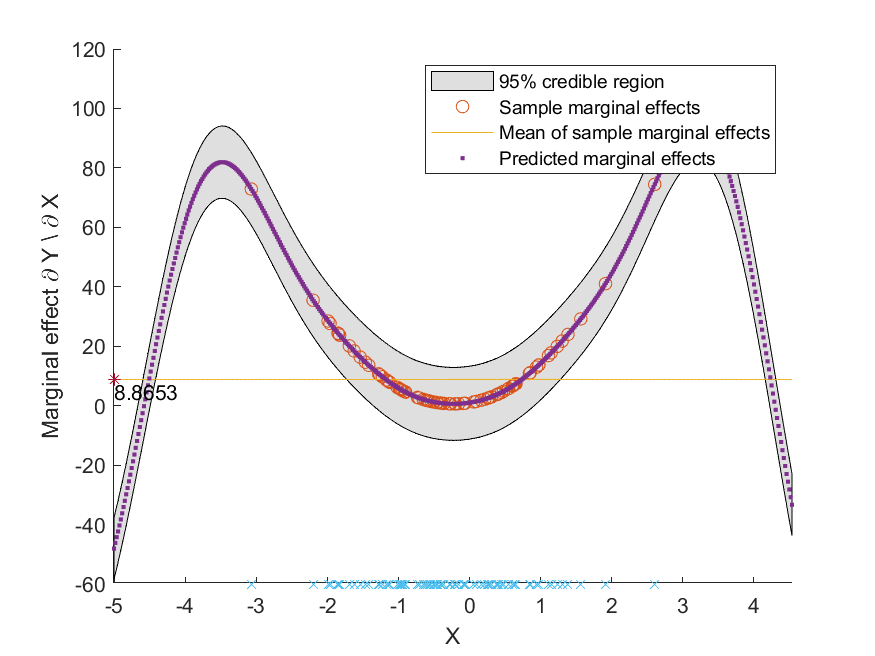
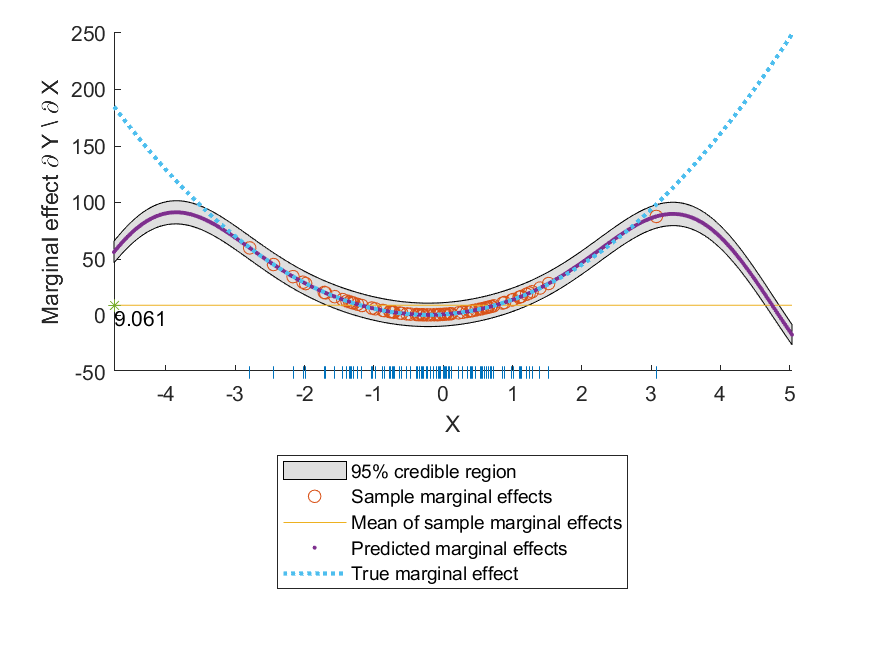
Bivariate interaction update
Bivariate interactions require modifying the plotme function so that sample marginal effects are plotted against the correct axis.

diff --git a/simulations/bivariate_linear_interaction.m b/simulations/bivariate_linear_interaction.m
@@ -18,9 +18,9 @@ y = b0 * ones(N,1) + X * [b1 b2]' + b3*(X(:,1) .* X(:,2))  + noise; % Marginal e
 train_X = normalize(X); % Normalize training data
 train_y = normalize(y); % Normalize training data
 
-% True DGP: y = -2 + (X1) + 2*(X2) + e;
-% True ME for X1: dy/dx1 = 1 + 2*(X2)
-% True ME for X2: dy/dx2 = 2 + 2*(X1)
+% True DGP: y = -2 + (X1) + 2*(X2) + 3*(X1*X2) + e;
+% True ME for X1: dy/dx1 = 1 + 3*(X2)
+% True ME for X2: dy/dx2 = 2 + 3*(X1)
 
 %% covSEiso
 
@@ -44,18 +44,38 @@ hyp_iso = minimize_v2(hyp, @gp, p, inffunc, meanfunc, covfunc, likfunc, train_X,
 
 d=1;
 numsteps=500;
-bivariate_linear_interaction_iso_x1 = gridme(d, numsteps, hyp_iso, meanfunc, covfunc, X, y);
+[ bivariate_linear_interaction_x1_iso, gridX ] = gridme(d, numsteps, hyp_iso, meanfunc, covfunc, X, y, [1 2]);
+hold on;
+plot(gridX(:,2), b1 + b3*gridX(:,2), ':', 'LineWidth', 2, 'DisplayName', "True marginal effect");
+xlabel('X2');
+ylabel('Marginal effect \partial Y \\ \partial X1')
+legend('Location', 'southoutside');
+legend('AutoUpdate', 'off');
+plot(X(:,2), min(ylim) * ones(size(X(:,2),1)), '|');
+%xlim([min(gridX(:,2)), max(gridX(:,2))])
+hold off;
 
 % Save the grid plot
-saveas(bivariate_linear_interaction_iso_x1, "C:\Users\johnsontr\Documents\GitHub\gpd\simulations\results\bivariate_linear_interaction_iso_x1.png")
+saveas(bivariate_linear_interaction_x1_iso, "C:\Users\johnsontr\Documents\GitHub\gpd\simulations\results\bivariate_linear_interaction_x1_iso.png")
 close;
 
 d=2;
 numsteps=500;
-bivariate_linear_interaction_iso_x2 = gridme(d, numsteps, hyp_iso, meanfunc, covfunc, X, y);
+[ bivariate_linear_interaction_x2_iso, gridX ] = gridme(d, numsteps, hyp_iso, meanfunc, covfunc, X, y, [1 2]);
+xlim([min(gridX(:,1)), max(gridX(:,1))])
+hold on;
+plot(gridX(:,1), b2 + b3*gridX(:,1), ':', 'LineWidth', 2, 'DisplayName', "True marginal effect");
+
+xlabel('X1');
+ylabel('Marginal effect \partial Y \\ \partial X2')
+legend('Location', 'southoutside');
+legend('AutoUpdate', 'off');
+plot(X(:,1), min(ylim) * ones(size(X(:,1),1)), '|');
+
+hold off;
 
 % Save the grid plot
-saveas(bivariate_linear_interaction_iso_x2, "C:\Users\johnsontr\Documents\GitHub\gpd\simulations\results\bivariate_linear_interaction_iso_x2.png")
+saveas(bivariate_linear_interaction_x2_iso, "C:\Users\johnsontr\Documents\GitHub\gpd\simulations\results\bivariate_linear_interaction_x2_iso.png")
 close;
 
 %% covSEard
@@ -81,16 +101,35 @@ hyp_ard = minimize_v2(hyp, @gp, p, inffunc, meanfunc, covfunc, likfunc, train_X,
 
 d=1;
 numsteps=500;
-bivariate_linear_interaction_ard_x1 = gridme(d, numsteps, hyp_ard, meanfunc, covfunc, X, y);
+[ bivariate_linear_interaction_x1_ard, gridX ] = gridme(d, numsteps, hyp_ard, meanfunc, covfunc, X, y, [1 2]);
+hold on;
+plot(gridX(:,2), b1 + b3*gridX(:,2), ':', 'LineWidth', 2, 'DisplayName', "True marginal effect");
+xlabel('X2');
+ylabel('Marginal effect \partial Y \\ \partial X1')
+legend('Location', 'southoutside');
+legend('AutoUpdate', 'off');
+plot(X(:,d), min(ylim) * ones(size(X(:,d),1)), '|');
+xlim([min(gridX(:,2)), max(gridX(:,2))])
+hold off;
+
 
 % Save the grid plot
-saveas(bivariate_linear_interaction_ard_x1, "C:\Users\johnsontr\Documents\GitHub\gpd\simulations\results\bivariate_linear_interaction_ard_x1.png")
+saveas(bivariate_linear_interaction_x1_ard, "C:\Users\johnsontr\Documents\GitHub\gpd\simulations\results\bivariate_linear_interaction_x1_ard.png")
 close;
 
 d=2;
 numsteps=500;
-bivariate_linear_interaction_ard_x2 = gridme(d, numsteps, hyp_ard, meanfunc, covfunc, X, y);
+[ bivariate_linear_interaction_ard_x2, gridX ] = gridme(d, numsteps, hyp_ard, meanfunc, covfunc, X, y, [1 2]);
+hold on;
+plot(gridX(:,1), b2 + b3*gridX(:,1), ':', 'LineWidth', 2, 'DisplayName', "True marginal effect");
+xlabel('X1');
+ylabel('Marginal effect \partial Y \\ \partial X2')
+legend('Location', 'southoutside');
+legend('AutoUpdate', 'off');
+plot(X(:,d), min(ylim) * ones(size(X(:,d),1)), '|');
+xlim([min(gridX(:,1)), max(gridX(:,1))])
+hold off;
 
 % Save the grid plot
-saveas(bivariate_linear_interaction_ard_x2, "C:\Users\johnsontr\Documents\GitHub\gpd\simulations\results\bivariate_linear_interaction_ard_x2.png")
+saveas(bivariate_linear_interaction_ard_x2, "C:\Users\johnsontr\Documents\GitHub\gpd\simulations\results\bivariate_linear_interaction_x2_ard.png")
 close;

diff --git a/simulations/bivariate_linear.m b/simulations/bivariate_linear.m
@@ -44,18 +44,31 @@ hyp_iso = minimize_v2(hyp, @gp, p, inffunc, meanfunc, covfunc, likfunc, train_X,
 
 d=1;
 numsteps=500;
-bivariate_linear_iso_x1 = gridme(d, numsteps, hyp_iso, meanfunc, covfunc, X, y);
+[ bivariate_linear_x1_iso, gridX ] = gridme(d, numsteps, hyp_iso, meanfunc, covfunc, X, y);
+hold on;
+plot(gridX(:,d), b1*ones(size(gridX,1), 1), ':', 'LineWidth', 2, 'DisplayName', "True marginal effect");
+legend('Location', 'southoutside');
+legend('AutoUpdate', 'off');
+plot(X(:,d), min(ylim) * ones(size(X(:,d),1)), '|');
+hold off;
+
 
 % Save the grid plot
-saveas(bivariate_linear_iso_x1, "C:\Users\johnsontr\Documents\GitHub\gpd\simulations\results\bivariate_linear_iso_x1.png")
+saveas(bivariate_linear_x1_iso, "C:\Users\johnsontr\Documents\GitHub\gpd\simulations\results\bivariate_linear_x1_iso.png")
 close;
 
 d=2;
 numsteps=500;
-bivariate_linear_iso_x2 = gridme(d, numsteps, hyp_iso, meanfunc, covfunc, X, y);
+[ bivariate_linear_x2_iso, gridX ] = gridme(d, numsteps, hyp_iso, meanfunc, covfunc, X, y);
+hold on;
+plot(gridX(:,d), b2*ones(size(gridX,1), 1), ':', 'LineWidth', 2, 'DisplayName', "True marginal effect");
+legend('Location', 'southoutside');
+legend('AutoUpdate', 'off');
+plot(X(:,d), min(ylim) * ones(size(X(:,d),1)), '|');
+hold off;
 
 % Save the grid plot
-saveas(bivariate_linear_iso_x2, "C:\Users\johnsontr\Documents\GitHub\gpd\simulations\results\bivariate_linear_iso_x2.png")
+saveas(bivariate_linear_x2_iso, "C:\Users\johnsontr\Documents\GitHub\gpd\simulations\results\bivariate_linear_x2_iso.png")
 close;
 
 %% covSEard
@@ -81,16 +94,28 @@ hyp_ard = minimize_v2(hyp, @gp, p, inffunc, meanfunc, covfunc, likfunc, train_X,
 
 d=1;
 numsteps=500;
-bivariate_linear_ard_x1 = gridme(d, numsteps, hyp_ard, meanfunc, covfunc, X, y);
+[ bivariate_linear_x1_ard, gridX ] = gridme(d, numsteps, hyp_ard, meanfunc, covfunc, X, y);
+hold on;
+plot(gridX(:,d), b1*ones(size(gridX,1), 1), ':', 'LineWidth', 2, 'DisplayName', "True marginal effect");
+legend('Location', 'southoutside');
+legend('AutoUpdate', 'off');
+plot(X(:,d), min(ylim) * ones(size(X(:,d),1)), '|');
+hold off;
 
 % Save the grid plot
-saveas(bivariate_linear_ard_x1, "C:\Users\johnsontr\Documents\GitHub\gpd\simulations\results\bivariate_linear_ard_x1.png")
+saveas(bivariate_linear_x1_ard, "C:\Users\johnsontr\Documents\GitHub\gpd\simulations\results\bivariate_linear_x1_ard.png")
 close;
 
 d=2;
 numsteps=500;
-bivariate_linear_ard_x2 = gridme(d, numsteps, hyp_ard, meanfunc, covfunc, X, y);
+[ bivariate_linear_x2_ard, gridX] = gridme(d, numsteps, hyp_ard, meanfunc, covfunc, X, y);
+hold on;
+plot(gridX(:,d), b2*ones(size(gridX,1), 1), ':', 'LineWidth', 2, 'DisplayName', "True marginal effect");
+legend('Location', 'southoutside');
+legend('AutoUpdate', 'off');
+plot(X(:,d), min(ylim) * ones(size(X(:,d),1)), '|');
+hold off;
 
 % Save the grid plot
-saveas(bivariate_linear_ard_x2, "C:\Users\johnsontr\Documents\GitHub\gpd\simulations\results\bivariate_linear_ard_x2.png")
+saveas(bivariate_linear_x2_ard, "C:\Users\johnsontr\Documents\GitHub\gpd\simulations\results\bivariate_linear_x2_ard.png")
 close;

diff --git a/gridme.m b/gridme.m
@@ -1,17 +1,41 @@
-function plt = gridme(d, numsteps, hyp, meanfunc, covfunc, X, y)
+function [ plt, gridX ] = gridme(d, numsteps, hyp, meanfunc, covfunc, X, y, interaction_indices)
+
+    % Future functionality: allow extra arguments to specify which
+    % variables need to be gridded in case of interactions.
 
     [~,D] = size(X);
 
-    range = max(X(:,d)) - min(X(:,d)) + 4*sqrt(var(X(:,d)));
-    gXd = ((min(X(:,d)) - 2*sqrt(var(X(:,d)))):range/(numsteps-1):(max(X(:,d)) + 2*sqrt(var(X(:,d)))))';
-  
     gridX = zeros(numsteps, D);
-    for k = 1:D
-        gridX(:,k) = mean(X(:,k))*ones(numsteps,1); % Hold all covariates at their respective mean
-    end
-    gridX(:,d) = gXd; % Overwrite d^th covariate with the grid
+
+    switch nargin 
+        case 7
+
+            for k = 1:D
+                gridX(:,k) = mean(X(:,k))*ones(numsteps,1); % Hold all covariates at their respective mean
+            end
     
-    plt = plotme(d, hyp, meanfunc, covfunc, X, y, gridX);
+            range = max(X(:,d)) - min(X(:,d)) + 4*sqrt(var(X(:,d)));
+            gXd = ((min(X(:,d)) - 2*sqrt(var(X(:,d)))):range/(numsteps-1):(max(X(:,d)) + 2*sqrt(var(X(:,d)))))';
+            gridX(:,d) = gXd; % Overwrite d^th covariate with the grid
+
+            plt = plotme(d, hyp, meanfunc, covfunc, X, y, gridX);
+        
+        otherwise
+
+            for k = 1:D
+                gridX(:,k) = mean(X(:,k))*ones(numsteps,1); % Hold all covariates at their respective mean
+            end
+    
+            for idx = interaction_indices
+                d = idx;
+                range = max(X(:,d)) - min(X(:,d)) + 4*sqrt(var(X(:,d)));
+                gXd = ((min(X(:,d)) - 2*sqrt(var(X(:,d)))):range/(numsteps-1):(max(X(:,d)) + 2*sqrt(var(X(:,d)))))';
+                gridX(:,d) = gXd; % Overwrite d^th covariate with the grid
+            end
+
+            plt = plotme(d, hyp, meanfunc, covfunc, X, y, gridX);
+
+    end
 
 end
 

diff --git a/plotme.m b/plotme.m
@@ -17,7 +17,6 @@ function plt = plotme(d, hyp, meanfunc, covfunc, X, y, Xs)
             plot(min(xlim),h1(d),'*')
             text(min(xlim),h1(d),{num2str(h1(d))},'VerticalAlignment','top','HorizontalAlignment','left')
             xlim([min(X(:,d)), max(X(:,d))])
-            hold off;
             legend('95% credible region', ...
                 'Sample marginal effects', ...
                 'Mean of sample marginal effects')
@@ -36,7 +35,7 @@ function plt = plotme(d, hyp, meanfunc, covfunc, X, y, Xs)
             plot(Xs(:,d), g1(d,:)', '.')
             xlabel('X')
             ylabel('Marginal effect \partial Y \\ \partial X')
-            plot(X(:,d), min(ylim) * ones(size(X(:,d),1)), 'x')
+            %plot(X(:,d), min(ylim) * ones(size(X(:,d),1)), 'x')
             plot(min(xlim),h1(d),'*')
             text(min(xlim),h1(d),{num2str(h1(d))},'VerticalAlignment','top','HorizontalAlignment','left')
             hold off;

diff --git a/simulations/univariate_cubic.m b/simulations/univariate_cubic.m
@@ -44,10 +44,17 @@ hyp_iso = minimize_v2(hyp, @gp, p, inffunc, meanfunc, covfunc, likfunc, train_X,
 
 d=1;
 numsteps=500;
-univariate_cubic_iso = gridme(d, numsteps, hyp_iso, meanfunc, covfunc, X, y);
+[ univariate_cubic_iso, gridX ] = gridme(d, numsteps, hyp_iso, meanfunc, covfunc, X, y);
+hold on;
+plot(gridX(:,d), b1 + (2*b2)*gridX(:,d) + (3*b3)*gridX(:,d).^2, ':', 'LineWidth', 2, 'DisplayName', "True marginal effect");
+legend('Location', 'southoutside');
+legend('AutoUpdate', 'off');
+plot(X(:,d), min(ylim) * ones(size(X(:,d),1)), '|');
+hold off;
 
 % Save the grid plot
 saveas(univariate_cubic_iso, "C:\Users\johnsontr\Documents\GitHub\gpd\simulations\results\univariate_cubic_iso.png")
+close;
 
 %% covSEard
 

diff --git a/simulations/univariate_quadratic.m b/simulations/univariate_quadratic.m
@@ -44,7 +44,12 @@ hyp_iso = minimize_v2(hyp, @gp, p, inffunc, meanfunc, covfunc, likfunc, train_X,
 
 d=1;
 numsteps=500;
-univariate_quadratic_iso = gridme(d, numsteps, hyp_iso, meanfunc, covfunc, X, y);
+[ univariate_quadratic_iso, gridX ] = gridme(d, numsteps, hyp_iso, meanfunc, covfunc, X, y);
+hold on;
+plot(gridX(:,d), b1+ (2*b2)*gridX(:,d), ':', 'LineWidth', 2, 'DisplayName', "True marginal effect");
+legend('AutoUpdate', 'off');
+plot(X(:,d), min(ylim) * ones(size(X(:,d),1)), '|');
+hold off;
 
 % Save the grid plot
 saveas(univariate_quadratic_iso, "C:\Users\johnsontr\Documents\GitHub\gpd\simulations\results\univariate_quadratic_iso.png")

diff --git a/simulations/univariate_linear.m b/simulations/univariate_linear.m
@@ -43,7 +43,13 @@ hyp_iso = minimize_v2(hyp, @gp, p, inffunc, meanfunc, covfunc, likfunc, train_X,
 
 d=1;
 numsteps=500;
-univariate_linear_iso = gridme(d, numsteps, hyp_iso, meanfunc, covfunc, X, y);
+[ univariate_linear_iso, gridX] = gridme(d, numsteps, hyp_iso, meanfunc, covfunc, X, y);
+hold on;
+plot(gridX(:,d), b1*ones(size(gridX,1),1), ':', 'LineWidth', 2, 'DisplayName', "True marginal effect");
+legend('AutoUpdate', 'off');
+plot(X(:,d), min(ylim) * ones(size(X(:,d),1)), '|')
+hold off;
+
 
 % Save the grid plot
 saveas(univariate_linear_iso, "C:\Users\johnsontr\Documents\GitHub\gpd\simulations\results\univariate_linear_iso.png")
